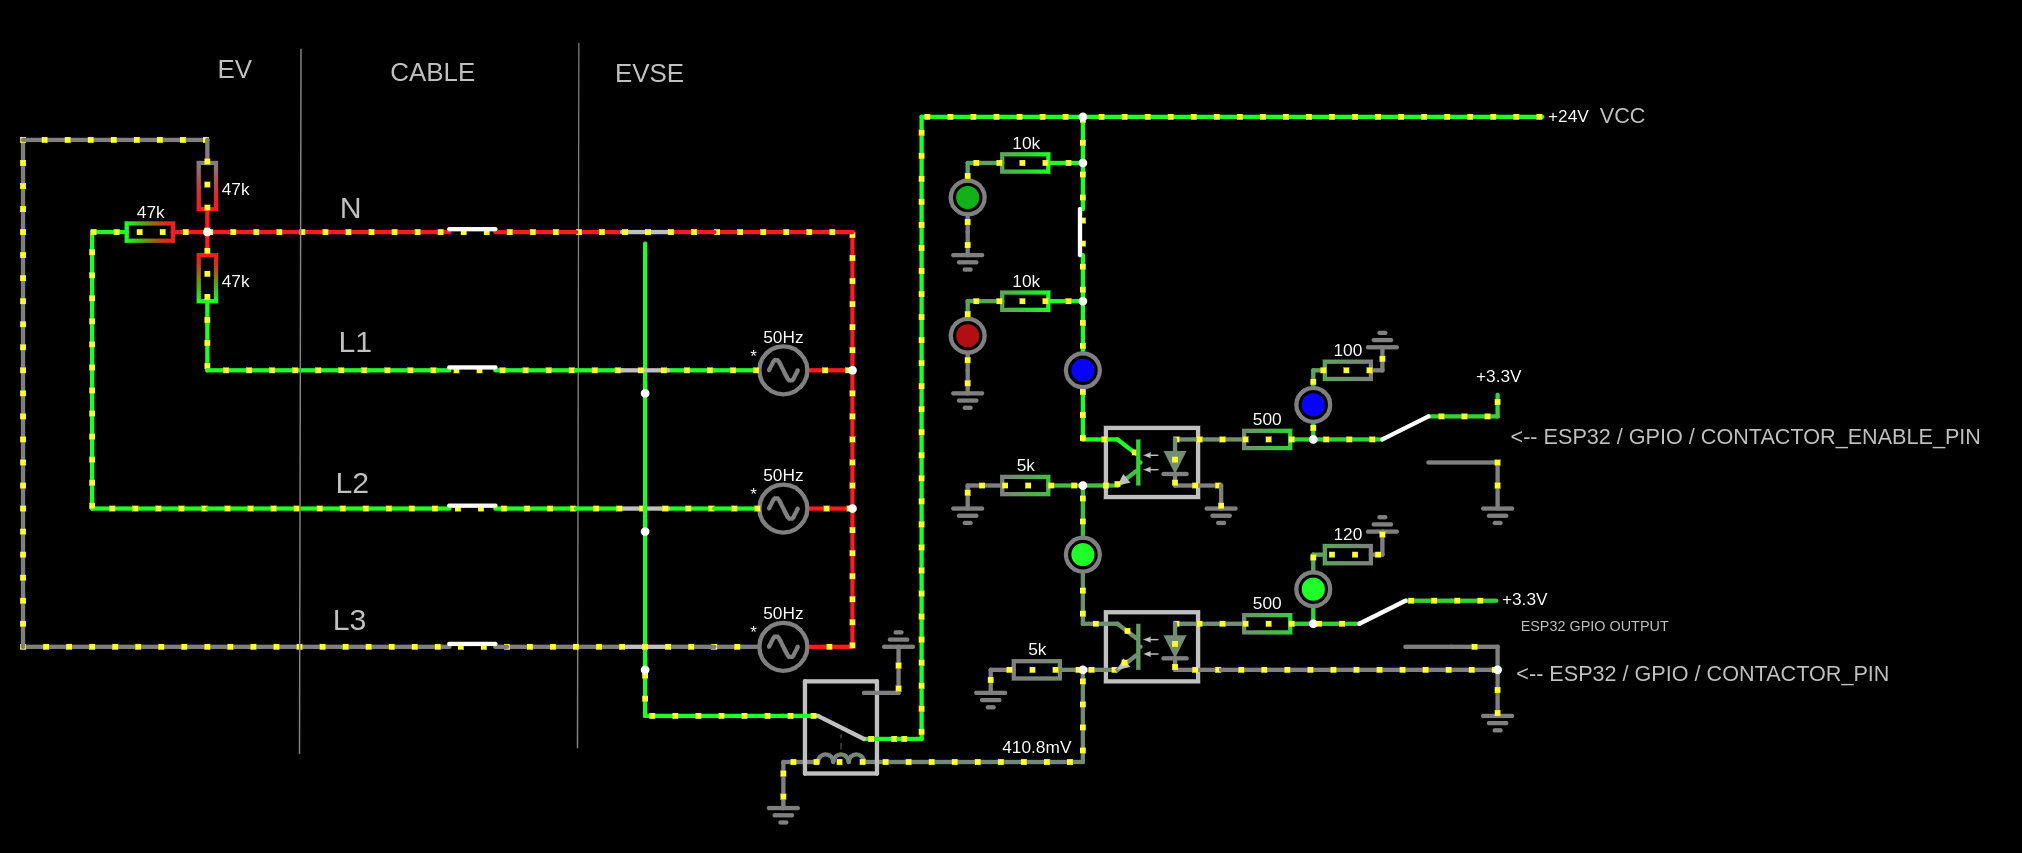
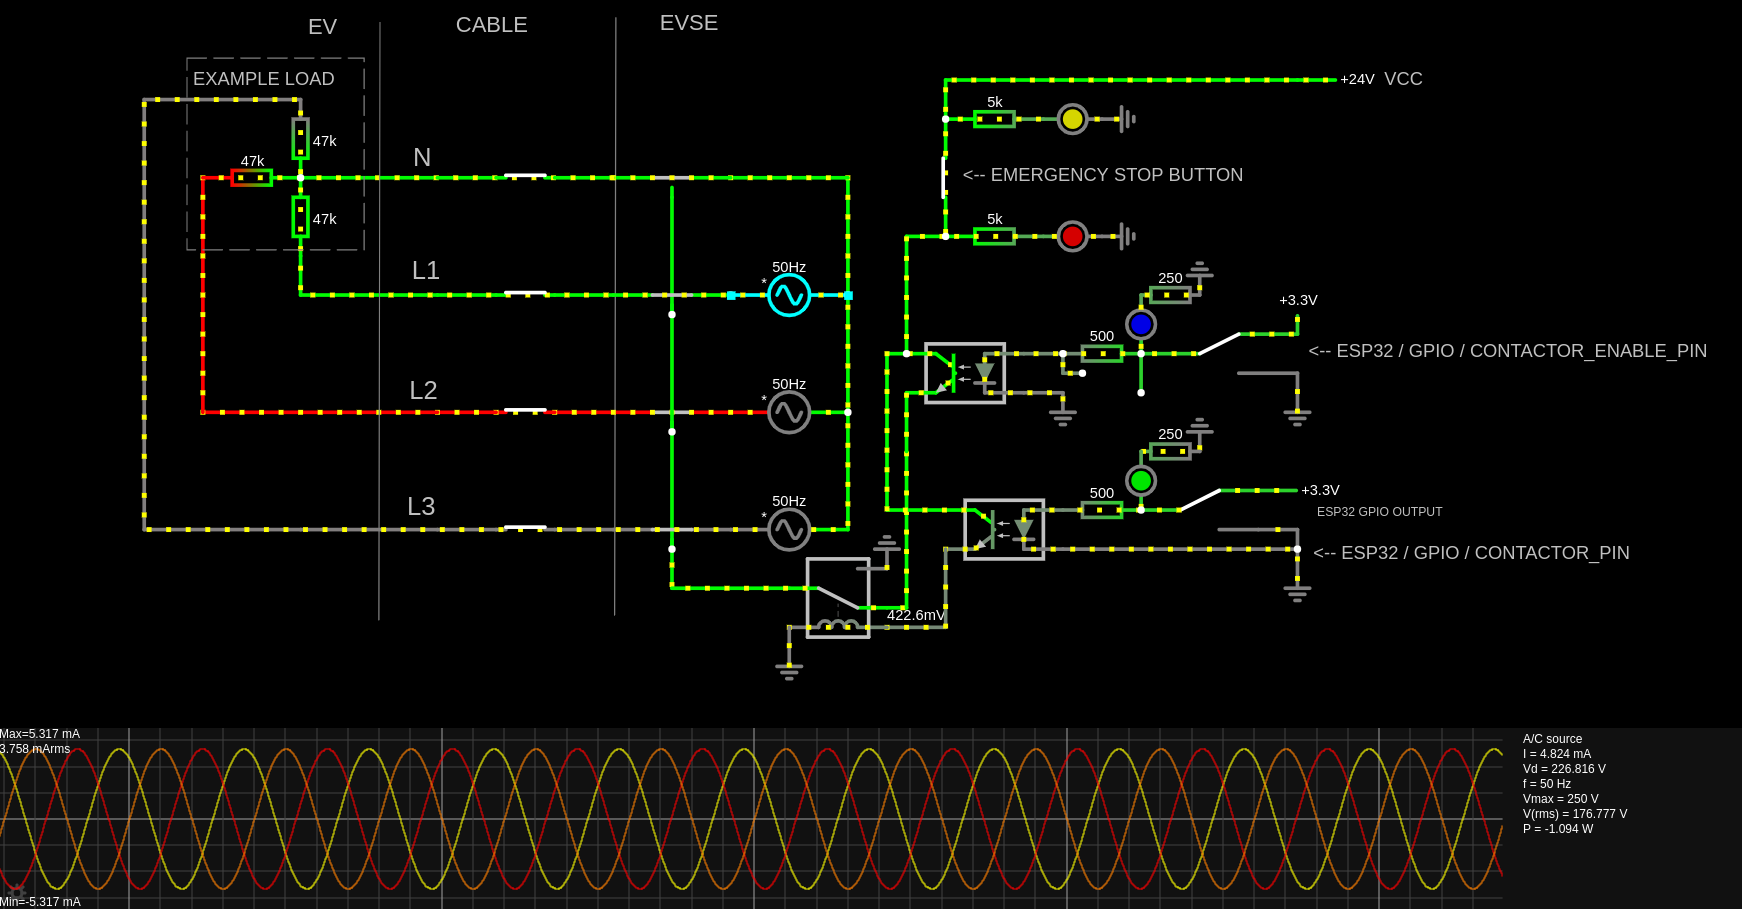
Fix:PWM only starts in B state. Updated readme and diagrams.

diff --git a/lib/CONTROLPILOT/ControlPilot.cpp b/lib/CONTROLPILOT/ControlPilot.cpp
@@ -69,12 +69,14 @@ void ControlPilot::loop()
     if (max_prev == CP_LEVELS::RANGE_12_V && max == CP_LEVELS::RANGE_9_V)
     {
         Serial.println("A => B state transition!");
+        generator.startPWM();
         LEDS_CP_STATE_B();
         (callbacks.A_B)();
     }
     else if (max_prev == CP_LEVELS::RANGE_9_V && max == CP_LEVELS::RANGE_12_V)
     {
         Serial.println("B => A state transition!");
+        generator.stopPWM();
         LEDS_CP_STATE_A();
         (callbacks.B_A)();
     }
@@ -108,12 +110,14 @@ void ControlPilot::loop()
     else if (max_prev == CP_LEVELS::RANGE_12_V && max == CP_LEVELS::RANGE_0_V)
     {
         Serial.println("A => E state transition!");
+        generator.stopPWM();
         LEDS_CP_STATE_E();
         (callbacks.B_E)();
     }
     else if (max_prev == CP_LEVELS::RANGE_9_V && max == CP_LEVELS::RANGE_0_V)
     {
         Serial.println("B => E state transition!");
+        generator.stopPWM();
         LEDS_CP_STATE_E();
         (callbacks.B_E)();
     }
@@ -157,6 +161,7 @@ void ControlPilot::loop()
     else if (max_prev != CP_LEVELS::RANGE_12_V && max == CP_LEVELS::RANGE_12_V)
     {
         Serial.println("X => A state transition!");
+        generator.stopPWM();
         LEDS_CP_STATE_A();
     }
 

diff --git a/lib/CONTROLPILOT/CPGenerator.h b/lib/CONTROLPILOT/CPGenerator.h
@@ -10,13 +10,31 @@ class CPGenerator
     uint8_t current_duty_cycle_percent = 255;
 
 public:
-    void start()
+    void startConstantVoltage()
+    {
+        pinMode(PWM_PIN, OUTPUT);
+        pinMode(PWM_PIN_2, OUTPUT);
+        pinMode(PWM_PIN_3, OUTPUT);
+        digitalWrite(PWM_PIN, HIGH);
+        digitalWrite(PWM_PIN_2, HIGH);
+        digitalWrite(PWM_PIN_3, HIGH);
+    }
+
+    void startPWM()
     {
         ledcSetup(CHANNEL, FREQ_HZ, RESOLUTION);
         ledcAttachPin(PWM_PIN, CHANNEL);
         ledcAttachPin(PWM_PIN_2, CHANNEL);
         ledcAttachPin(PWM_PIN_3, CHANNEL);
         setDutyCyclePercent(DEFAULT_DUTY_CYCLE_PERCENT);
+    }
+
+    void stopPWM()
+    {
+        ledcDetachPin(PWM_PIN);
+        ledcDetachPin(PWM_PIN_2);
+        ledcDetachPin(PWM_PIN_3);
+        startConstantVoltage();
     }
 
     void setDutyCyclePercent(uint8_t percent)

diff --git a/lib/CONTROLPILOT/ControlPilot.h b/lib/CONTROLPILOT/ControlPilot.h
@@ -57,15 +57,15 @@ public:
 
 class ControlPilot
 {
-    CPCallbacks callbacks;
     CPGenerator generator;
 
 public:
+    CPCallbacks callbacks;
     CPVoltageReader voltage_reader;
     inline void start()
     {
         voltage_reader.start();
-        generator.start();
+        generator.startConstantVoltage();
         taskify("CP Task", 10000, this, 1, NULL);
     };
 

diff --git a/README.md b/README.md
@@ -39,13 +39,19 @@ The purpose of this circuit is to establish PWM communication with the EV (CP ci
 
 Detailed specification: CP: _IEC 61851-1:2017, Annex A_, PP: _IEC 61851-1:2017, Annex B, B.2_
 
+**IEC diagram:**
+
+![IEC_CP_CIRCUIT](docs/IEC_CP_CIRCUIT.png)
+
+**My implementation:**
+
 Interactive diagram: https://tinyurl.com/2kqn36ny
 
 ![CP_PP](docs/CP-PP.png)
 
 #### 1.B. Contactor drive circuit
 
-Interactive diagram: https://tinyurl.com/2aohd9gd
+Interactive diagram: https://tinyurl.com/2dwejsee
 
 ![contactor](docs/contactor.png)
 
@@ -114,8 +120,6 @@ On boot, a TCP server will start and will be listening for client connections ov
 
 #### Responses sent by the EVSE
 
-Responses are in the following format [HEADER]:[CSV_VALUE_1],[CSV_VALUE_2],[CSV_VALUE_3],...
-
 ##### Response to **start\n**
 
 | Section     | Value          | Meaning                                 |
@@ -123,7 +127,7 @@ Responses are in the following format [HEADER]:[CSV_VALUE_1],[CSV_VALUE_2],[CSV_
 | HEADER      | "command"      | The response type is a command response |
 | CSV_VALUE_1 | "OK" / "ERROR" | The command succeeded or failed         |
 
-example response: "command:OK,"
+example response: "OK,"
 
 ##### Response to **stop\n**
 
@@ -132,17 +136,17 @@ example response: "command:OK,"
 | HEADER      | "command"      | The response type is a command response |
 | CSV_VALUE_1 | "OK" / "ERROR" | The command succeeded or failed         |
 
-example response: "command:OK,"
+example response: "OK,"
 
 ##### Response to **status?\n**
 
-| Section     | Value    | Meaning                                                               |
-| ----------- | -------- | --------------------------------------------------------------------- |
-| HEADER      | "status" | The response type is a status response                                |
-| CSV_VALUE_1 | 1 / 0    | An EV is plugged in or not                                            |
-| CSV_VALUE_2 | 1 / 0    | Charging allowed or not (by an external command)                      |
-| CSV_VALUE_3 | 1 / 0    | Charging is in progress oer not (determined by internal charge logic) |
-| CSV_VALUE_4 | 1 / 0    | EVSE is in an error state (CP E or F state) or not                    |
+| Section     | Value     | Meaning                                                               |
+| ----------- | --------- | --------------------------------------------------------------------- |
+| HEADER      | "status:" | The response type is a status response                                |
+| CSV_VALUE_1 | 1 / 0     | An EV is plugged in or not                                            |
+| CSV_VALUE_2 | 1 / 0     | Charging allowed or not (by an external command)                      |
+| CSV_VALUE_3 | 1 / 0     | Charging is in progress oer not (determined by internal charge logic) |
+| CSV_VALUE_4 | 1 / 0     | EVSE is in an error state (CP E or F state) or not                    |
 
 example response: "status:1,0,0,0,"
 
@@ -150,7 +154,7 @@ example response: "status:1,0,0,0,"
 
 | Section     | Value              | Meaning                                      |
 | ----------- | ------------------ | -------------------------------------------- |
-| HEADER      | "metervalues"      | The response type is a meter values response |
+| HEADER      | "metervalues:"     | The response type is a meter values response |
 | CSV_VALUE_1 | fixed point number | Energy active net (Wh). Integer.             |
 | CSV_VALUE_2 | fixed point number | Power active import (W). Integer.            |
 
